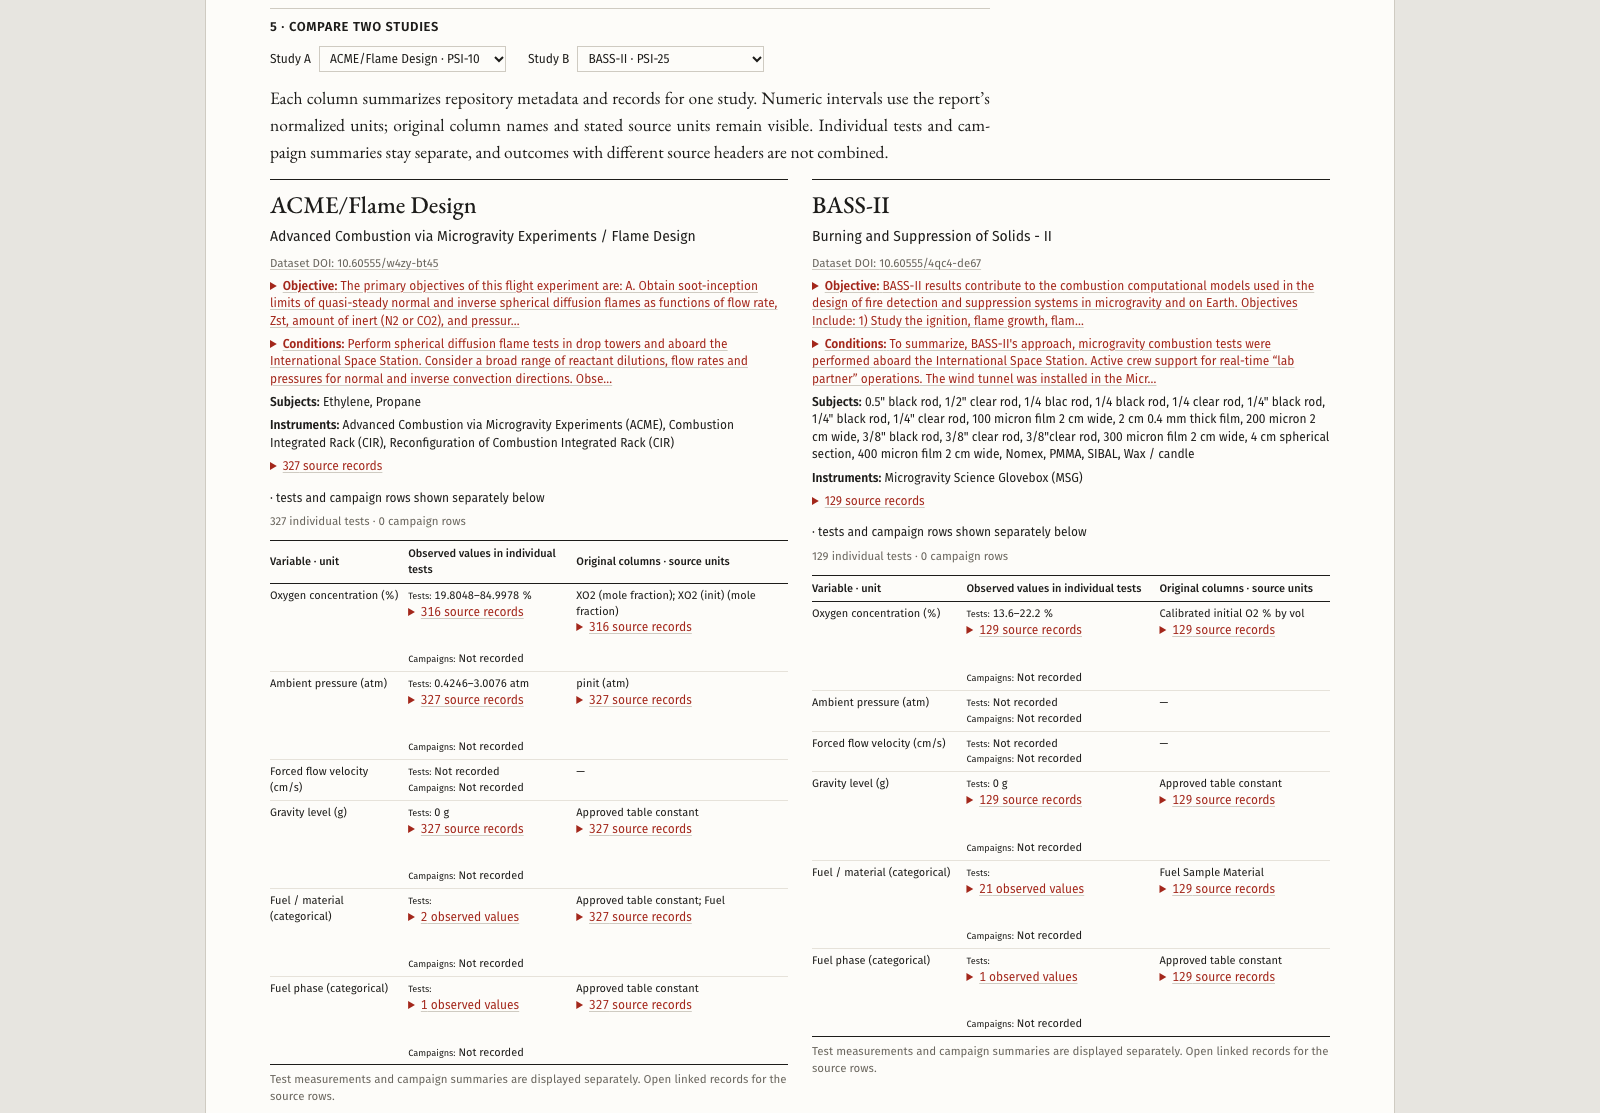
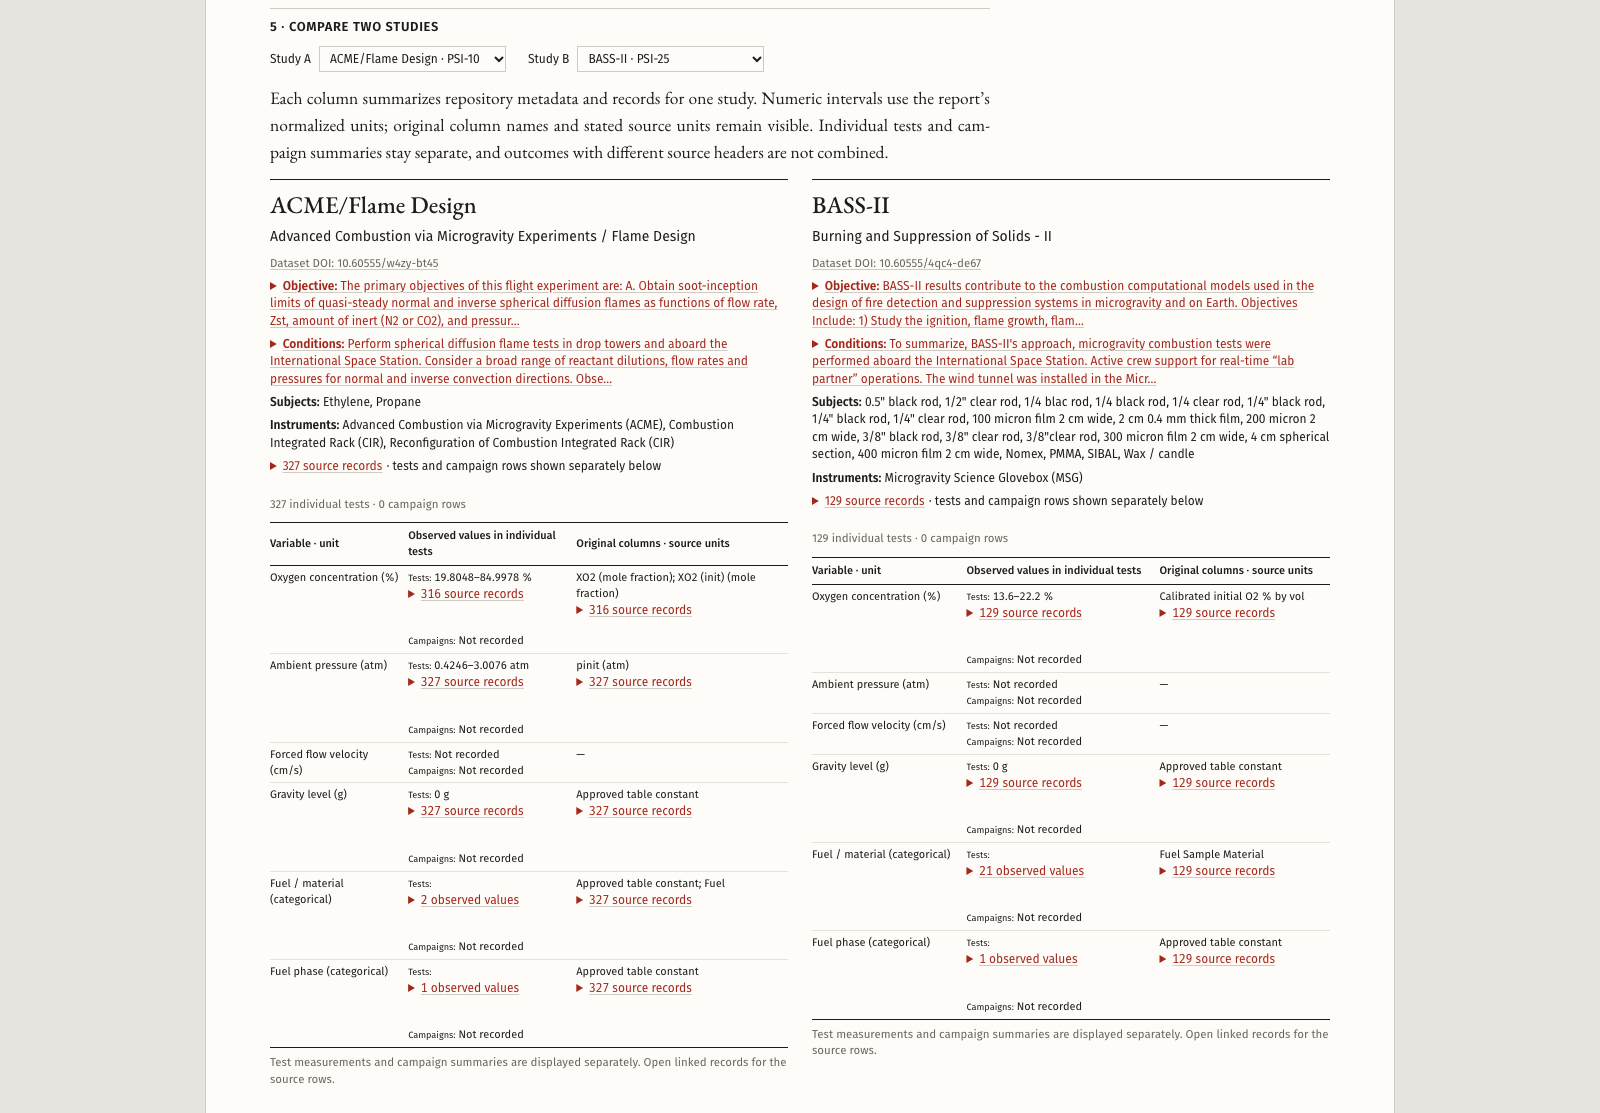
T13: fix invalid disclosure nesting

diff --git a/web/src/components/StudyCompare.tsx b/web/src/components/StudyCompare.tsx
@@ -47,7 +47,7 @@ function StudyColumn({ study, variables, records }: { study: Study; variables: V
       <StudyText label="Conditions" value={study.summary.conditions} />
       <p><b>Subjects:</b> {study.summary.subjects.join(", ") || "Not stated in repository metadata"}</p>
       <p><b>Instruments:</b> {study.summary.instruments ?? "Not stated in repository metadata"}</p>
-      <p><RecordLinks records={records} /> · tests and campaign rows shown separately below</p>
+      <div className="study-record-links"><RecordLinks records={records} /><span> · tests and campaign rows shown separately below</span></div>
       <p className="tblnote">{tests.length} individual tests · {campaigns.length} campaign rows</p>
       <table className="study-values">
         <thead><tr><th>Variable · unit</th><th>Observed values in individual tests</th><th>Original columns · source units</th></tr></thead>

diff --git a/web/src/styles/report.css b/web/src/styles/report.css
@@ -128,6 +128,7 @@ td.src { color: var(--ink-3); font-size: 11.5px; }
 .study-compare-col h3 { font-family: var(--serif); font-size: 24px; font-weight: 500; border-top: 1px solid var(--ink); padding-top: 8px; }
 .study-compare-col .study-title { font-size: 14px; margin: 4px 0 8px; }
 .study-compare-col p { margin: 6px 0; }
+.study-record-links { display: flex; align-items: baseline; gap: 4px; margin: 6px 0; }
 .study-description { margin: 6px 0; }
 .study-description summary { cursor: pointer; }
 .study-description p { margin: 4px 0 4px 12px; }
